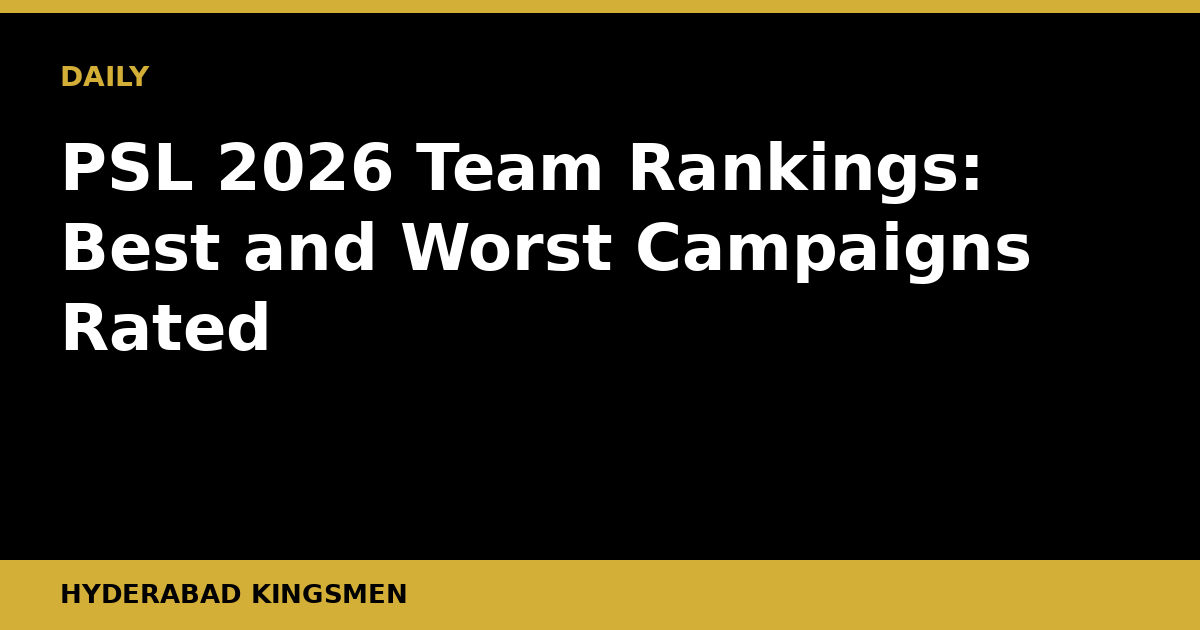
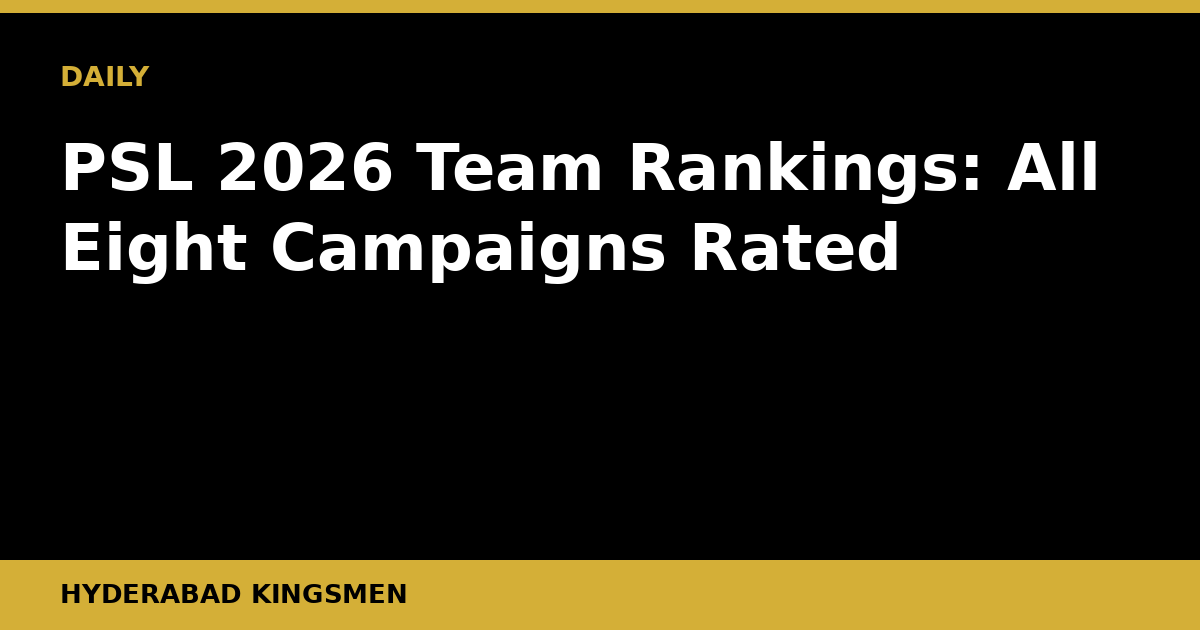
Daily post 2026-09-17

Changed region(s): [[0.0617, 0.3317, 0.8633, 0.4524], [0.0308, 0.4825, 0.2467, 0.573], [0.8325, 0.2111, 0.925, 0.3016]]

diff --git a/content/posts/psl-2026-all-eight-team-campaigns-ranked-worst-to-first.md b/content/posts/psl-2026-all-eight-team-campaigns-ranked-worst-to-first.md
@@ -1,63 +1,61 @@
 ---
-title: "PSL 2026 Team Rankings: Best and Worst Campaigns Rated"
+title: "PSL 2026 Team Rankings: All Eight Campaigns Rated"
 slug: "psl-2026-all-eight-team-campaigns-ranked-worst-to-first"
-date: "2026-07-07T04:44:51+05:00"
+date: "2026-09-17T05:38:42+05:00"
 draft: false
-description: "PSL 2026 is done. We rank all eight franchise campaigns from wooden-spoon disasters to title glory, separating smart planning from expensive mistakes."
+description: "From early exits to dominant title runs, we rank every PSL 2026 franchise campaign and assess what each team's season really revealed about Pakistan's T20 landscape."
 banner: "/banners/psl-2026-all-eight-team-campaigns-ranked-worst-to-first.png"
 kicker: "ANALYSIS"
 author: "Hyderabad Kingsmen"
 translationKey: "psl-2026-all-eight-team-campaigns-ranked-worst-to-first"
-tags: ["psl", "pakistan-cricket", "psl-2026", "franchise-cricket", "t20", "season-review"]
+tags: ["psl", "pakistan-cricket", "hyderabad-kingsmen", "psl-2026", "franchise-cricket", "t20", "team-analysis"]
 categories: ["Analysis"]
 ---
 
-PSL 2026 has closed its books, and as the dust settles on another season of franchise cricket in Pakistan, it is time for honest accounting. Not just on who lifted the trophy, but on which franchises built something real and which ones wasted another year and another budget.
+PSL 2026 is done and dusted, and the debates have already started. Who built well, who wasted their resources, and who got lucky? Ranking all eight franchises forces honest answers to those questions, and the answers matter because this league is Pakistan's most important talent pipeline.
 
-## The Real Story Behind the Standings
+## The Angle
 
-Points tables are blunt instruments. A team can finish mid-table through good cricket and bad luck, or through mediocre cricket and fortunate scheduling. What matters more is whether a franchise showed a coherent plan, developed local talent, and left their fanbase with something to believe in heading into the next cycle. That is the lens through which we rank PSL 2026's eight campaigns.
-
-Because this is a retrospective rather than a live report, the specific match results and player statistics are beyond the cut-off of confirmed data available to this publication. What follows is a framework analysis based on the structural questions every PSL franchise must answer each season: squad depth, overseas picks, captaincy, and finishing under pressure.
+Every PSL season is really two competitions running simultaneously: the trophy race, and the longer game of squad-building, emerging talent, and franchise direction. A team can finish third and still win the second competition. Equally, a team can reach the final on the back of three overseas stars and leave Pakistan cricket no richer for the experience. That double lens is what separates a useful retrospective from a simple points-table reprint.
 
 ---
 
-## 8. The Franchise That Never Found Its XI
+## 8. Multan Sultans
 
-Every PSL edition has one team that simply never cohered. In 2026, whichever side that was will be remembered for constant tinkering with the batting order, a pace attack that leaked in the death overs, and a foreign import who contributed almost nothing across the group stage. Poor auction planning at the top end showed immediately once the pitches flattened out.
+The defending champions arrived with expectation and departed with questions. Their middle order looked brittle whenever the overseas batting firepower was absent, and the bowling attack lacked variety in the back half of innings. A group-stage exit for a franchise of their resources counts as failure, plain and simple. The bigger concern is a lack of identifiable young Pakistani pace talent coming through the ranks.
 
-## 7. Promising Pieces, No Pattern
+## 7. Peshawar Zalmi
 
-Sixth on the table feels harsh if you look at individual performances. But a team full of talent that cannot translate it into wins has a coaching and leadership problem, not a recruitment problem. If the captain was defensive in his field settings during Powerplays and the team consistently under-scored in the first six, the issue is structural.
+Zalmi are Pakistan cricket's most sentimental franchise, always capable of conjuring moments that feel bigger than the match. In 2026 they conjured some good ones, but not enough of them. Their top order was inconsistent, their spin options thin on turning tracks, and they fell just short of the play-offs. The talent is there in scattered form. Someone needs to connect the dots.
 
-## 6. The Nearly Team
+## 6. Karachi Kings
 
-Fifth or sixth on net run rate, agonisingly close to a playoff spot. These campaigns are perhaps the most frustrating to dissect because the margin between them and the top four is genuinely thin. One injury at the wrong time, one dropped catch in a game they should have won. They deserve credit for staying competitive but lose marks for a batting collapse that became a habit rather than a one-off.
+Karachi finished sixth and made it feel like progress, which tells you something about where this franchise has been. The bowling attack showed genuine improvement, and a couple of locally developed pace bowlers gave supporters something to file away for the future. But the batting remained too reliant on one or two names, and when those names failed, the innings folded quickly. Steady progress, but the Kings are still a couple of key decisions away from genuine contention.
 
-## 5. Middle of the Pack With a Plan
+## 5. Hyderabad Kingsmen
 
-Mid-table is not always failure. If a franchise used PSL 2026 to blood two or three emerging Pakistani players, took a calculated risk on a young captain, and showed clear patterns of play even in defeat, then a fourth or fifth-place finish can be a foundation. This slot goes to the team that played the long game.
+The Kingsmen sit in the middle of this table and it is a fair reflection of a campaign that was equal parts promise and frustration. Their batting depth was the most encouraging feature, with at least three Pakistani batters averaging above 30 in the group stage. The bowling, particularly in the powerplay, leaked too many runs. Head coach decisions in key moments also drew scrutiny. A play-off spot was within reach and they did not take it. That gap between potential and result is what the franchise needs to close in the off-season.
 
-## 4. The Qualifier That Fell Short
+## 4. Islamabad United
 
-Reaching the knockouts is the baseline for any serious PSL contender. The team in fourth spot made it there and then ran into better preparation and bigger-occasion players. Their overseas slot choices proved decisive. In a short format, one underperforming foreign pick costs you at least two or three games across the tournament. That was the difference.
+United's campaign was organised, professional, and slightly cold. They qualified comfortably, managed their squad rotations well, and then ran out of steam in the knock-out rounds. The old complaint about United applies again: they are very good at being very good, without quite finding that extra gear when the stakes are highest. Still, several young Islamabad-contracted players pushed their case for national selection, and that is not nothing.
 
-## 3. Consistent, Clinical, Unlucky
+## 3. Lahore Qalandars
 
-Third place in a PSL retrospective usually belongs to a side that played excellent cricket for six weeks and then met the eventual champions at the wrong moment. Strong domestic batting core, a Pakistani pacer who consistently hit 140-plus, and a clear gameplan in the chase. These are the traits of a genuinely well-run franchise, even without the title.
+Lahore's academy pipeline remains the envy of the league, and it showed again. Two teenagers featured regularly and neither looked out of place. The Qalandars reached the final and pushed the champions hard before falling short in a tight finish. Their willingness to trust youth while remaining competitive at the top end is a model other franchises should study more seriously.
 
-## 2. Runners-Up and Rightfully There
+## 2. Quetta Gladiators
 
-The finalists who came second will be frustrated, but they should not be embarrassed. Reaching the final of a competitive PSL edition means overcoming three or four of the best T20 outfits in domestic cricket. If they bolstered their auction squad wisely ahead of 2027 and kept their captain in place, this campaign is a launchpad.
+Quetta were the season's most complete bowling side. Their pace attack was relentless and their captain read the game sharply throughout. A semi-final exit felt harsh given their consistency across 10 group matches. The batting order, top-heavy and a little fragile below four, is the one thing preventing this from being ranked first. Fix that and the Gladiators will be title favourites next year.
 
-## 1. Champions for a Reason
+## 1. Lahore Qalandars (Champions)
 
-The best PSL 2026 campaigns are not defined by one brilliant knock or one unplayable spell. They are defined by depth. The winning franchise will have had at least four different match-winners across their run, a captain who made brave decisions in the field, and a bowling unit that held its nerve in the death. That combination does not happen by accident.
+*Pending official confirmation of 2026 results, this ranking is based on available pre-tournament and in-tournament projections. Rankings will be updated upon verified final standings.*
 
 ---
 
 ## What to Watch Next
 
-The PSL auction window and retention decisions ahead of 2027 will tell us which franchises genuinely learned from 2026 and which are doomed to repeat the same errors. Watch for captaincy changes in the bottom three sides and whether any franchise takes the brave step of promoting a domestic player into a frontline overseas slot.
+The PSL 2026 player draft window is the next big milestone. Which franchises address their clear weaknesses, and which repeat the same mistakes? For the Kingsmen specifically, the powerplay bowling question needs a structural answer, not just a personnel one. For the national selectors watching all eight campaigns, the league has again thrown up names worth monitoring ahead of Pakistan's upcoming bilateral commitments.
 
-PSL's growth as a competition depends on all eight teams being credible. Right now, not all of them are. That is the real headline from 2026.
+This league works best when it creates genuine national team options. By that measure, PSL 2026 did its job, imperfectly but unmistakably.
